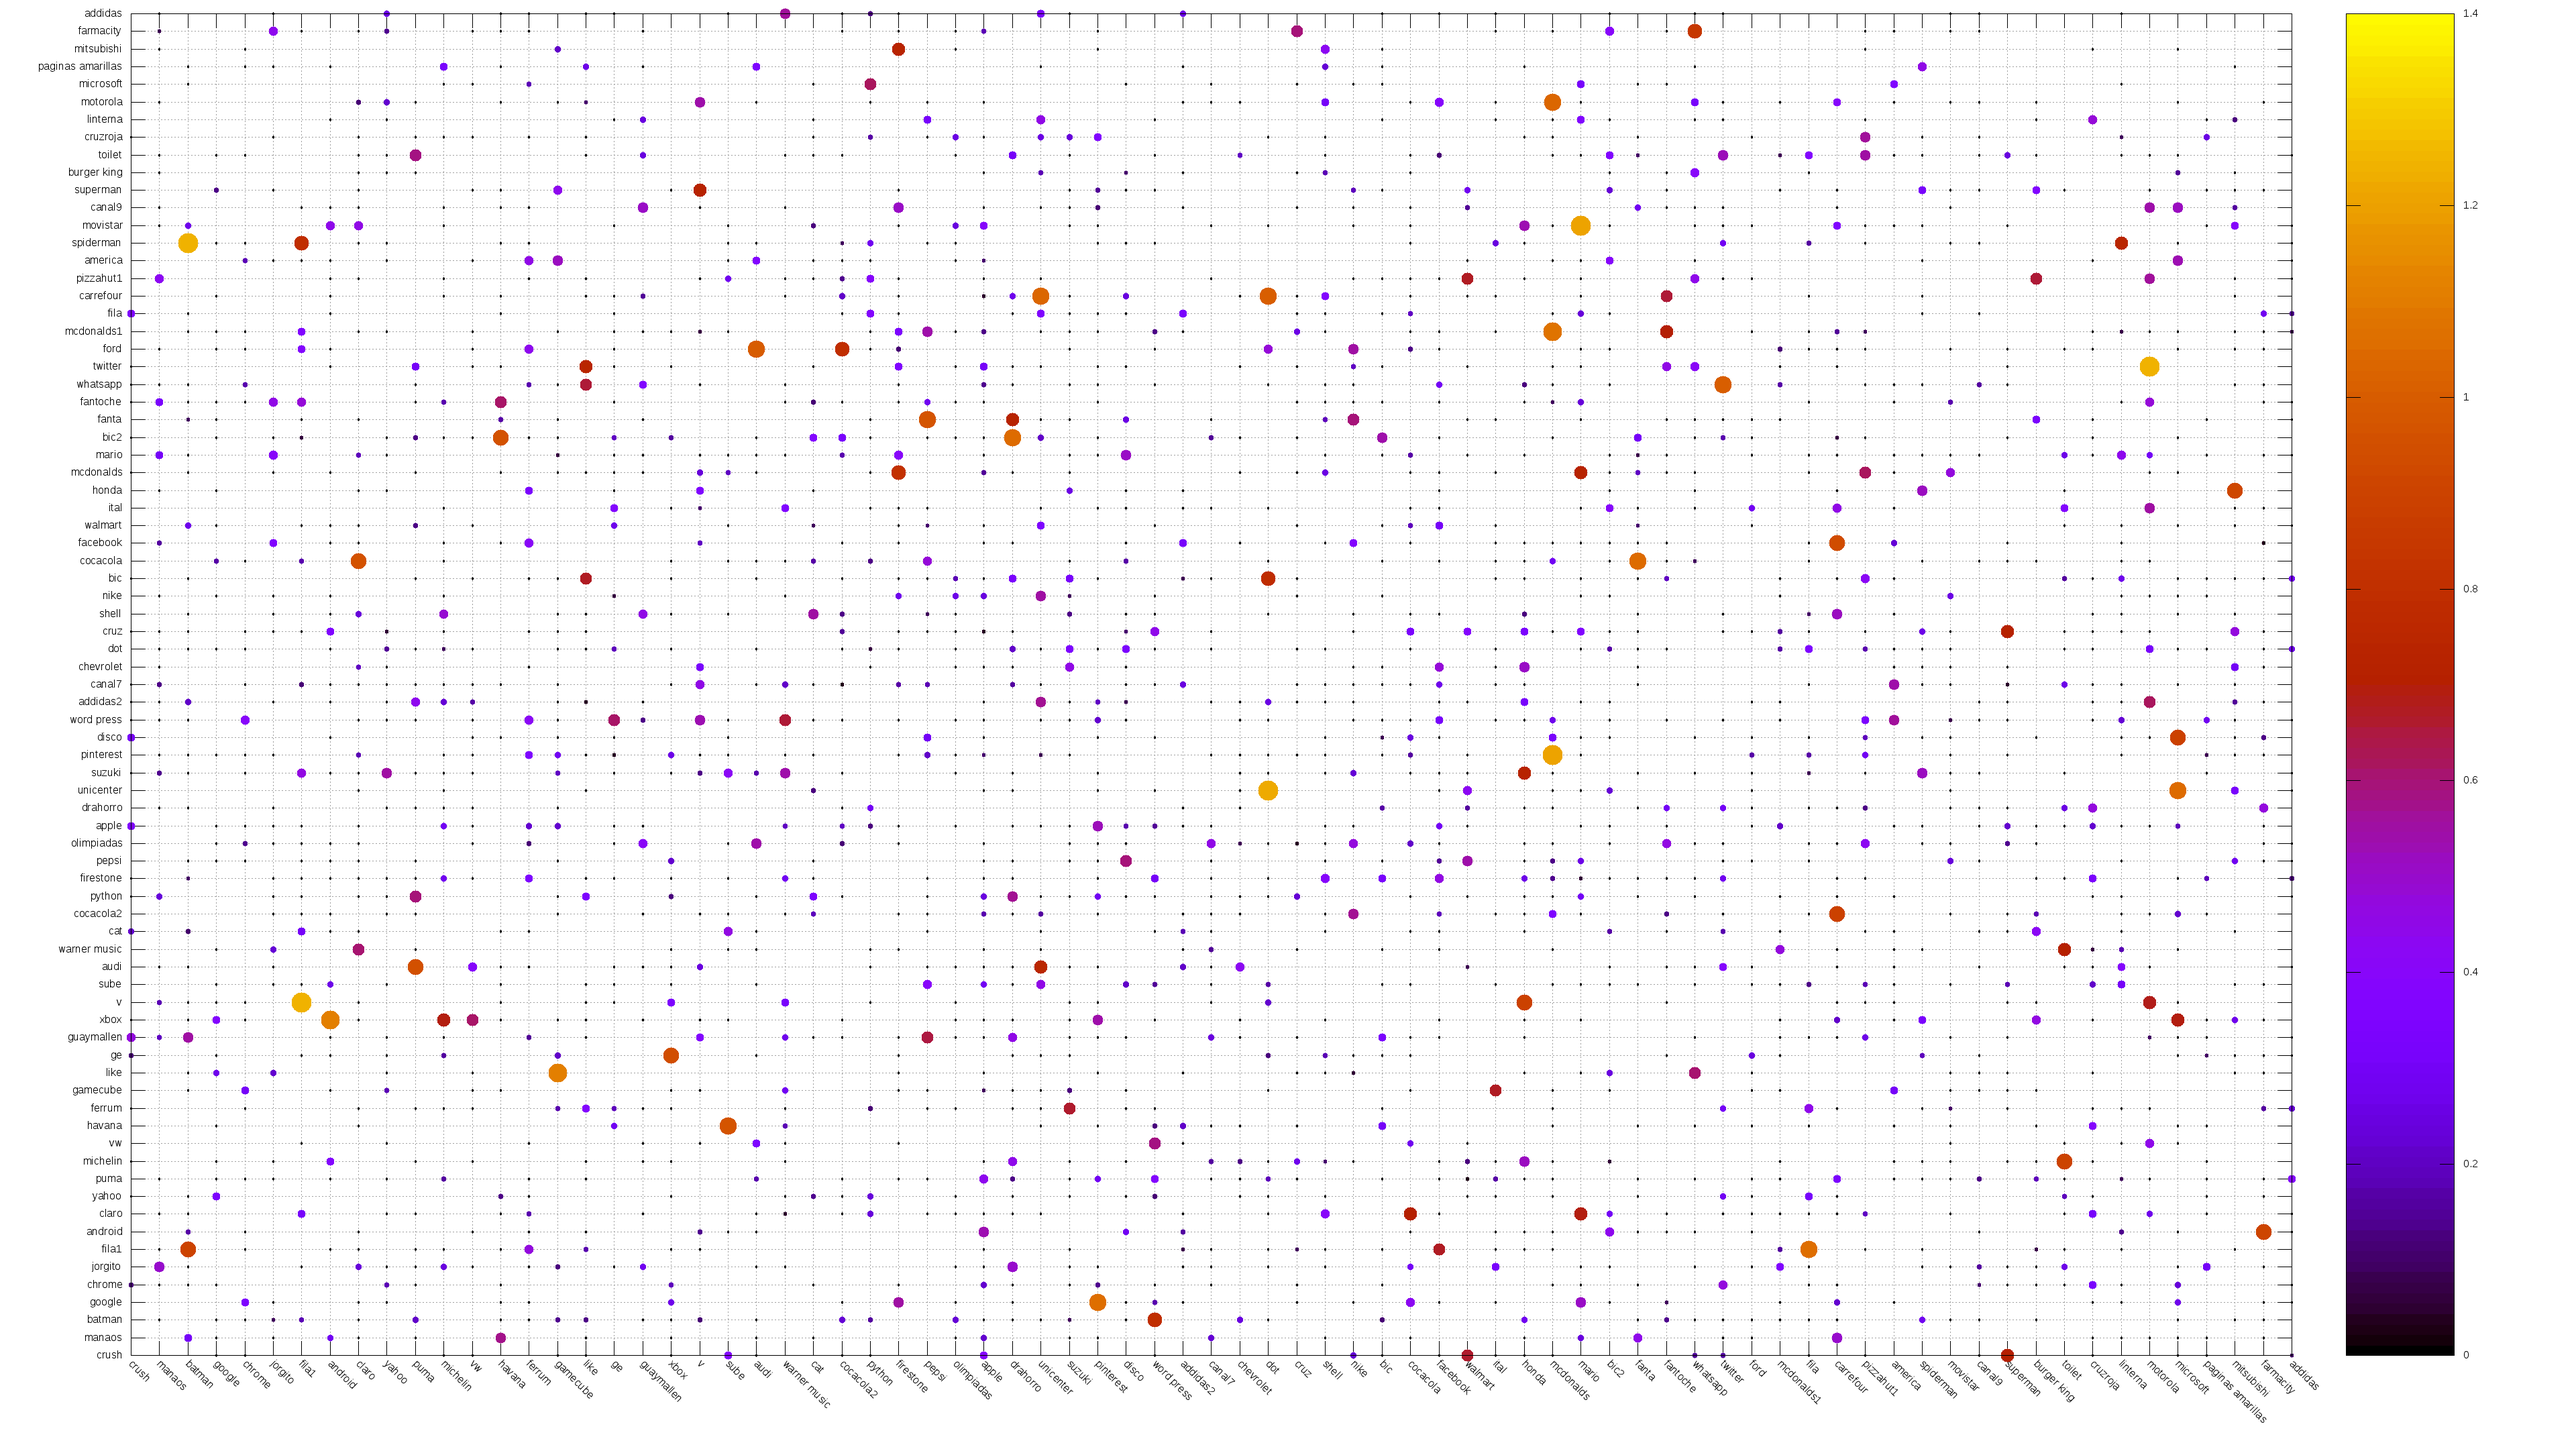
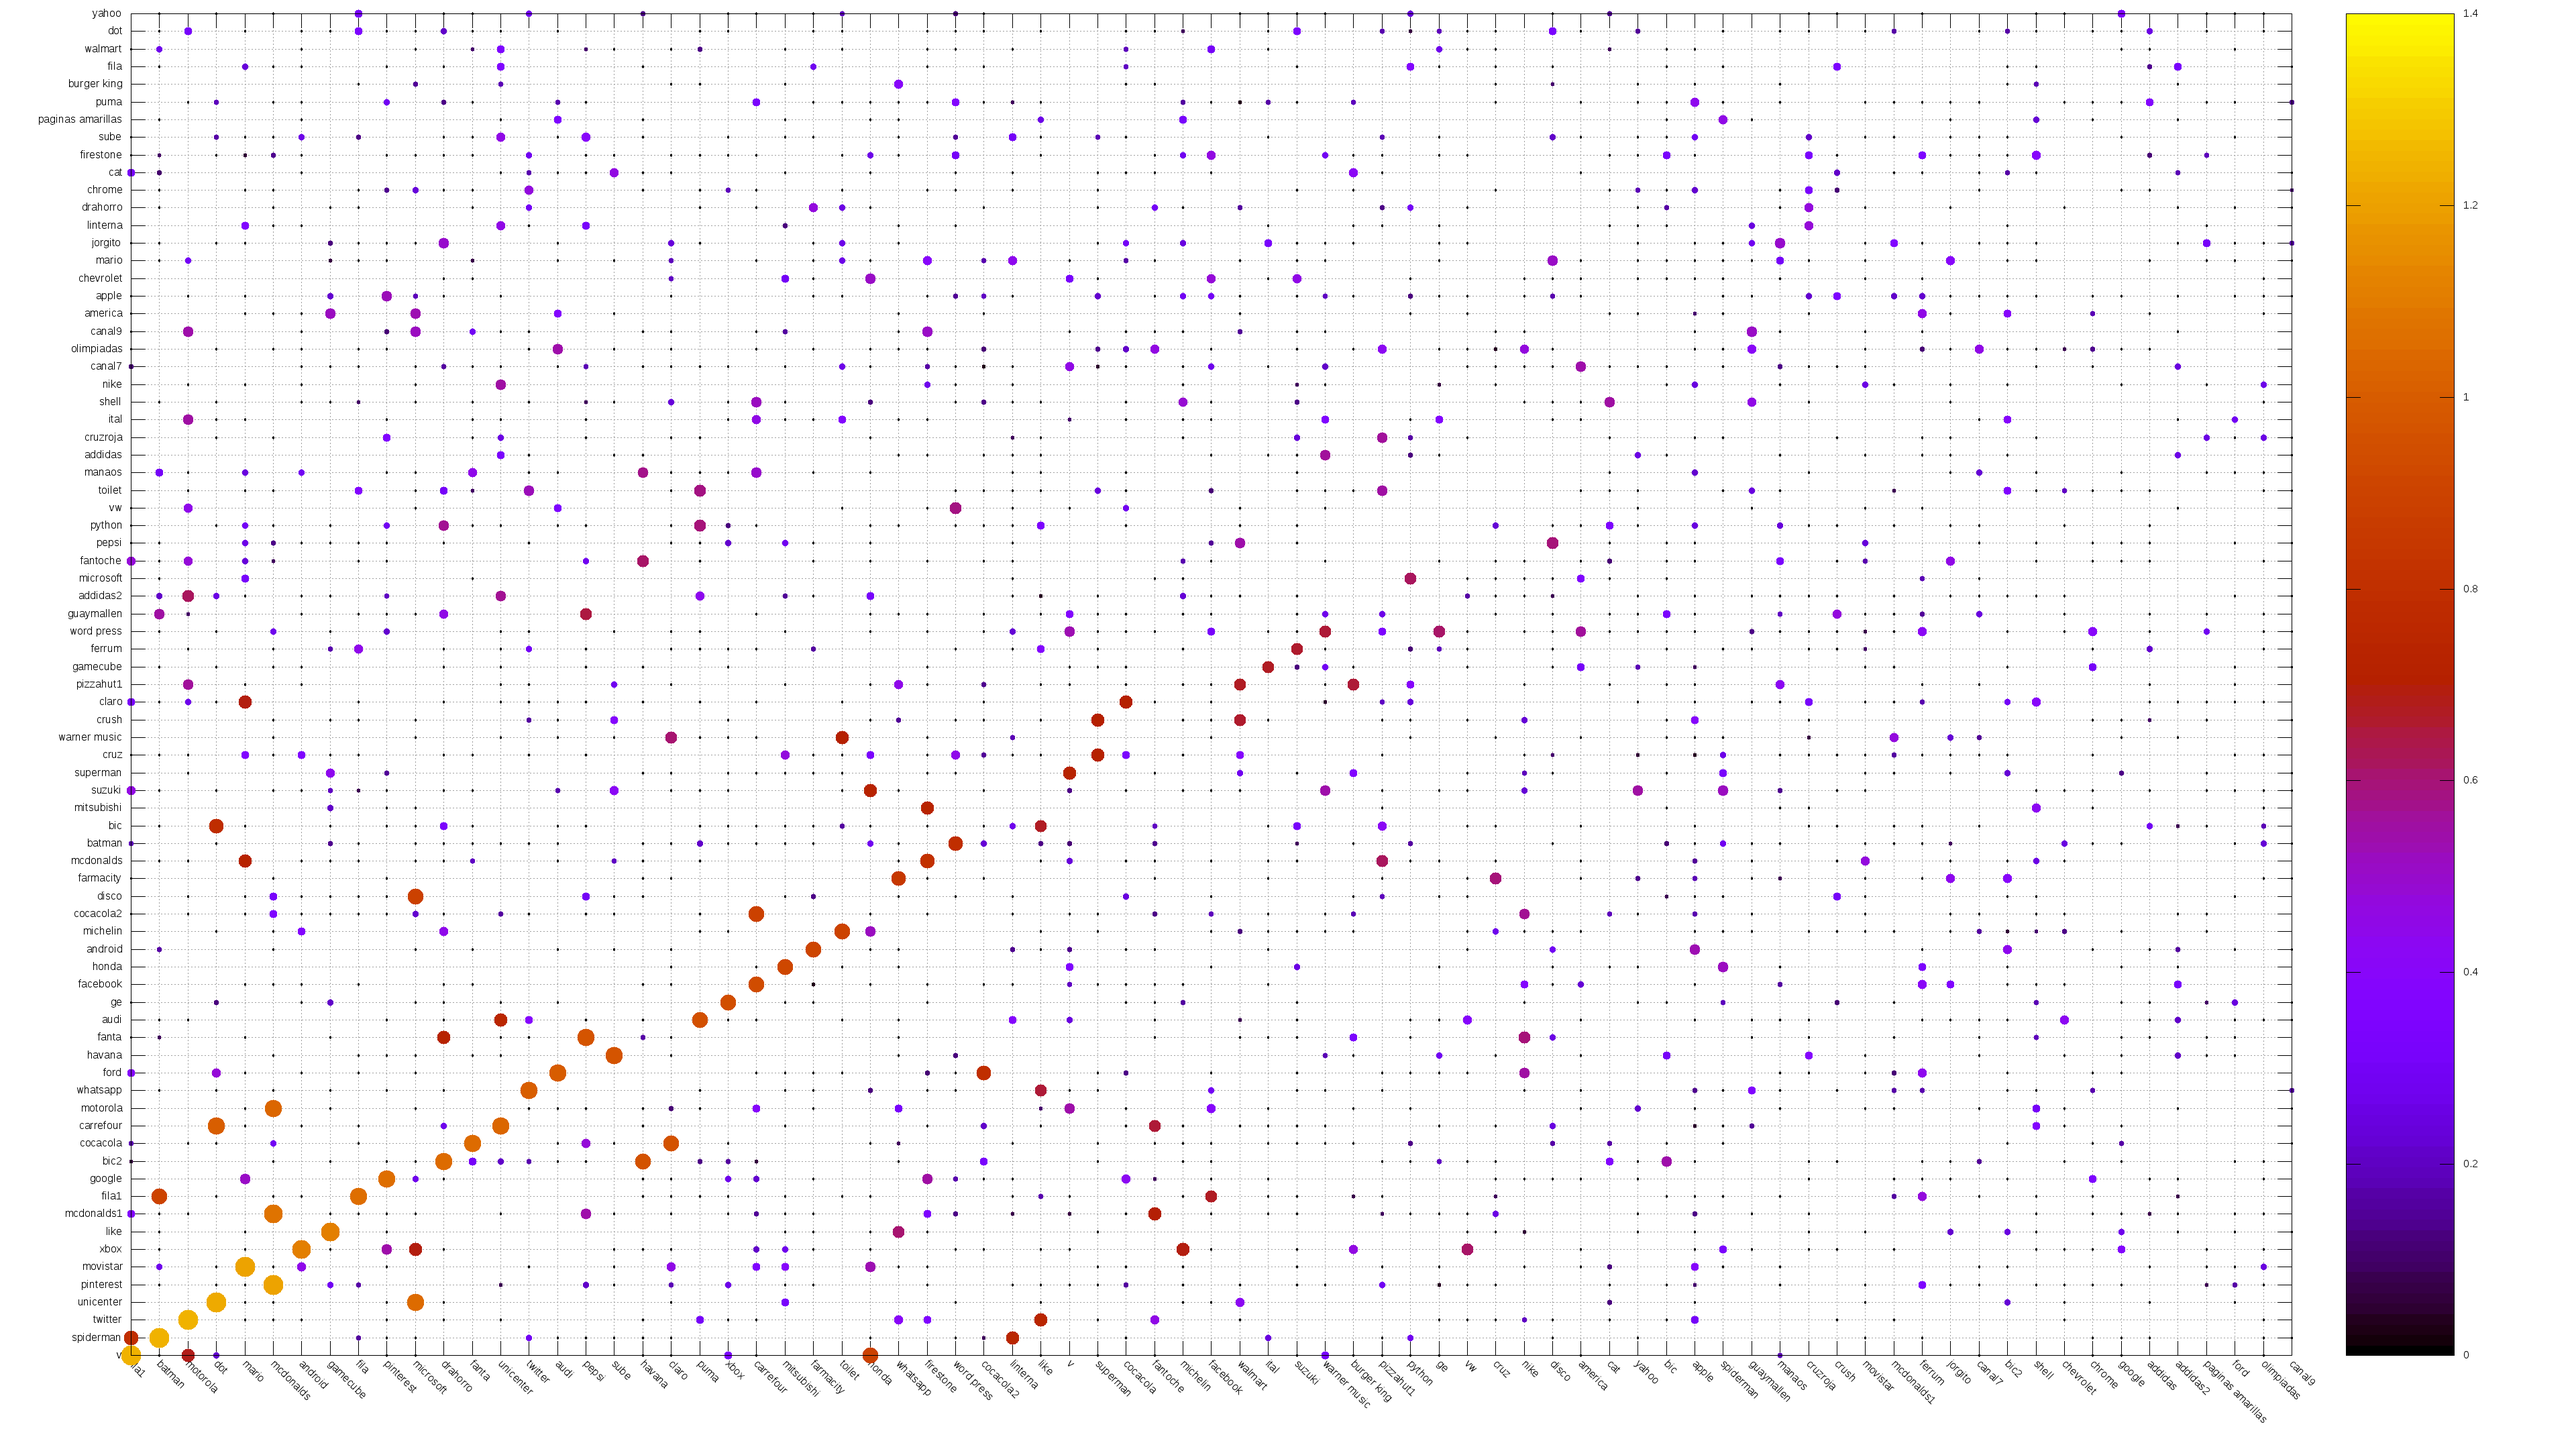
q onda?

diff --git a/dataMiner.py b/dataMiner.py
@@ -19,6 +19,28 @@ import numpy as np
 import matplotlib.pyplot as plt
 from matplotlib._png import read_png
 
+def maximox(dic):
+	iMax = [0,0]
+	for i in dic:
+		if dic[i][1] / dic[i][0] > iMax[1]:
+			iMax = [i,dic[i][1] / dic[i][0]]
+	return iMax[1]
+
+def maximoy(l):
+	greatsort = map(lambda x : [x[0],0,x[1][0]], l)
+	for i in l:
+		for j in i[1][1]:
+			x = i[1][1][j][1] / i[1][1][j][0]
+			for h in greatsort:
+				if h[0] == j:
+					if x > h[1]:
+						h[1] = x
+	greatsort = sorted(greatsort, key=lambda x : x[1])
+	ysort = range(len(greatsort))
+	for i in range(len(greatsort)):
+		ysort[greatsort[i][2]] = i
+	return ysort
+
 if __name__ == '__main__':
 
 	f = open("trials.txt", 'r')
@@ -38,6 +60,11 @@ if __name__ == '__main__':
 	for l in f:
 		if l.startswith("NEW USER"):
 		# Cambio de Usuario
+#			if (user != -1 and users[user]["TOTAL"]!=0):
+#				avg_users[0][user] /= users[user]["TOTAL"]
+#				avg_users[1][user] /= users[user]["TOTAL"]
+#				avg_users[2][user] /= users[user]["TOTAL"]
+#				avg_users[3][user] /= users[user]["TOTAL"]
 			user = user+1
 			users.append({obj['0']:0,obj['1']:0,obj['2']:0,obj['3']:0,"TOTAL":0})
 			temp_users.append([])
@@ -169,31 +196,39 @@ if __name__ == '__main__':
 #	pUsers = True
 	if (pUsers):
 		c = 0
-		l = 1.0/(len(users)+10)
+		l = 1.0/(len(users)+50)
+		center = l*len(users)/2
 		for u in range(len(users)):
 			if int (users[u]["TOTAL"]) > 0:
-				#p = plt.plot((0+u*l,1+u*l,2+u*l,3+u*l),(users[u][obj['0']],users[u][obj['1']],users[u][obj['2']],users[u][obj['3']]),colors[c])
-				p = plt.bar((0+u*l,1+u*l,2+u*l,3+u*l),(users[u][obj['0']],users[u][obj['1']],users[u][obj['2']],users[u][obj['3']]),width=l,color=colors[c])
-				#p = plt.bar((0+u*l,1+u*l,2+u*l,3+u*l),(users[u][obj['0']]/users[u]["TOTAL"],users[u][obj['1']]/users[u]["TOTAL"],users[u][obj['2']]/users[u]["TOTAL"],users[u][obj['3']]/users[u]["TOTAL"]),width=l,color=colors[c])
+				p = plt.bar((0.5+u*l,1.5+u*l,2.5+u*l,3.5+u*l),(users[u][obj['0']],users[u][obj['1']],users[u][obj['2']],users[u][obj['3']]),width=l,color=colors[c])
+				#p = plt.bar((0.5+u*l,1.5+u*l,2.5+u*l,3.5+u*l),(users[u][obj['0']]/users[u]["TOTAL"],users[u][obj['1']]/users[u]["TOTAL"],users[u][obj['2']]/users[u]["TOTAL"],users[u][obj['3']]/users[u]["TOTAL"]),width=l,color=colors[c])
 				plt.title(u'Índice de relación de los usuarios por cada clase',fontsize=20)
 				#plt.title(u'Índice de relación relativa de los usuarios por cada clase',fontsize=20)
 				plt.ylabel(u'Índice de relación',fontsize=20)
 				#plt.ylabel(u'Índice de relación relativa',fontsize=20)
-				plt.xticks((0+l*len(users)/2,1+l*len(users)/2,2+l*len(users)/2,3+l*len(users)/2),(obj["0"],obj["1"],obj["2"],obj["3"]))
 				c = c+1
 				if c >= len(colors):
 					c = 0
+
+		plt.ylim(-0.1, 60)
+		#plt.ylim(-0.002, 60)
+		plt.xticks((0,1,2,3),(obj["0"],obj["1"],obj["2"],obj["3"]))
+		plt.boxplot(avg_users)
 		plt.show()
 
-	pGlobal = False
-	pGlobal = True
-	if (pGlobal):
-		
-		plt.ylim(-1, 60) 
-		labels = (obj["0"],obj["1"],obj["2"],obj["3"])
-		plt.boxplot(avg_users, labels=labels, showfliers=False)
-		
-		plt.show()
+	#RANDOMS:
+	list_random = []
+	for i in randoms.keys():
+		list_random.append([i,randoms[i]])
+	great_sortx = sorted(map(lambda x : [x[0],maximox(x[1][1]),x[1][0]], list_random), key=lambda x : x[1])
+	xsort = range(len(great_sortx))
+	for i in range(len(great_sortx)):
+		xsort[great_sortx[i][2]] = i
+	ysort = maximoy(list_random)
+	M = len(xsort)
+	xsort = map(lambda x : M-x, xsort)
+	M = len(ysort)
+	ysort = map(lambda x : M-x, ysort)
 
 	gpRandom = open("random.data",'w')
 	x = []
@@ -209,14 +244,19 @@ if __name__ == '__main__':
 			if v in randoms:
 				val = randoms[v][0]
 				res = randoms[r][1][v][1] / randoms[r][1][v][0]
-				gpRandom.write(str(val) + " " + str(index) + " " + str(res) + "\n")
+				gpRandom.write(str(ysort[val]) + " " + str(xsort[index]) + " " + str(res) + "\n")
 				full.append([index,val,res])
-	z = "set xtics (\""
+	z = "set ytics (\""
 	for i in range(len(names)):
-		z += names[i] + "\" " + str(i) + ", \""
+		z += names[i] + "\" " + str(xsort[i]) + ", \""
 	z += ")"
 #	print z
+	z = "set xtics (\""
+	for i in range(len(names)):
+		z += names[i] + "\" " + str(ysort[i]) + ", \""
+	z += ") rotate by -45"
+#	print z
 	full = sorted(full, key=lambda x : x[2])
-	#for r in full:
-	#	if (r[2] > 0):
-	#		print names[r[0]] + " -> " + names[r[1]] + ": " + str(r[2])
+#	for r in full:
+#		if (r[2] > 0):
+#			print names[r[0]] + " -> " + names[r[1]] + ": " + str(r[2])
